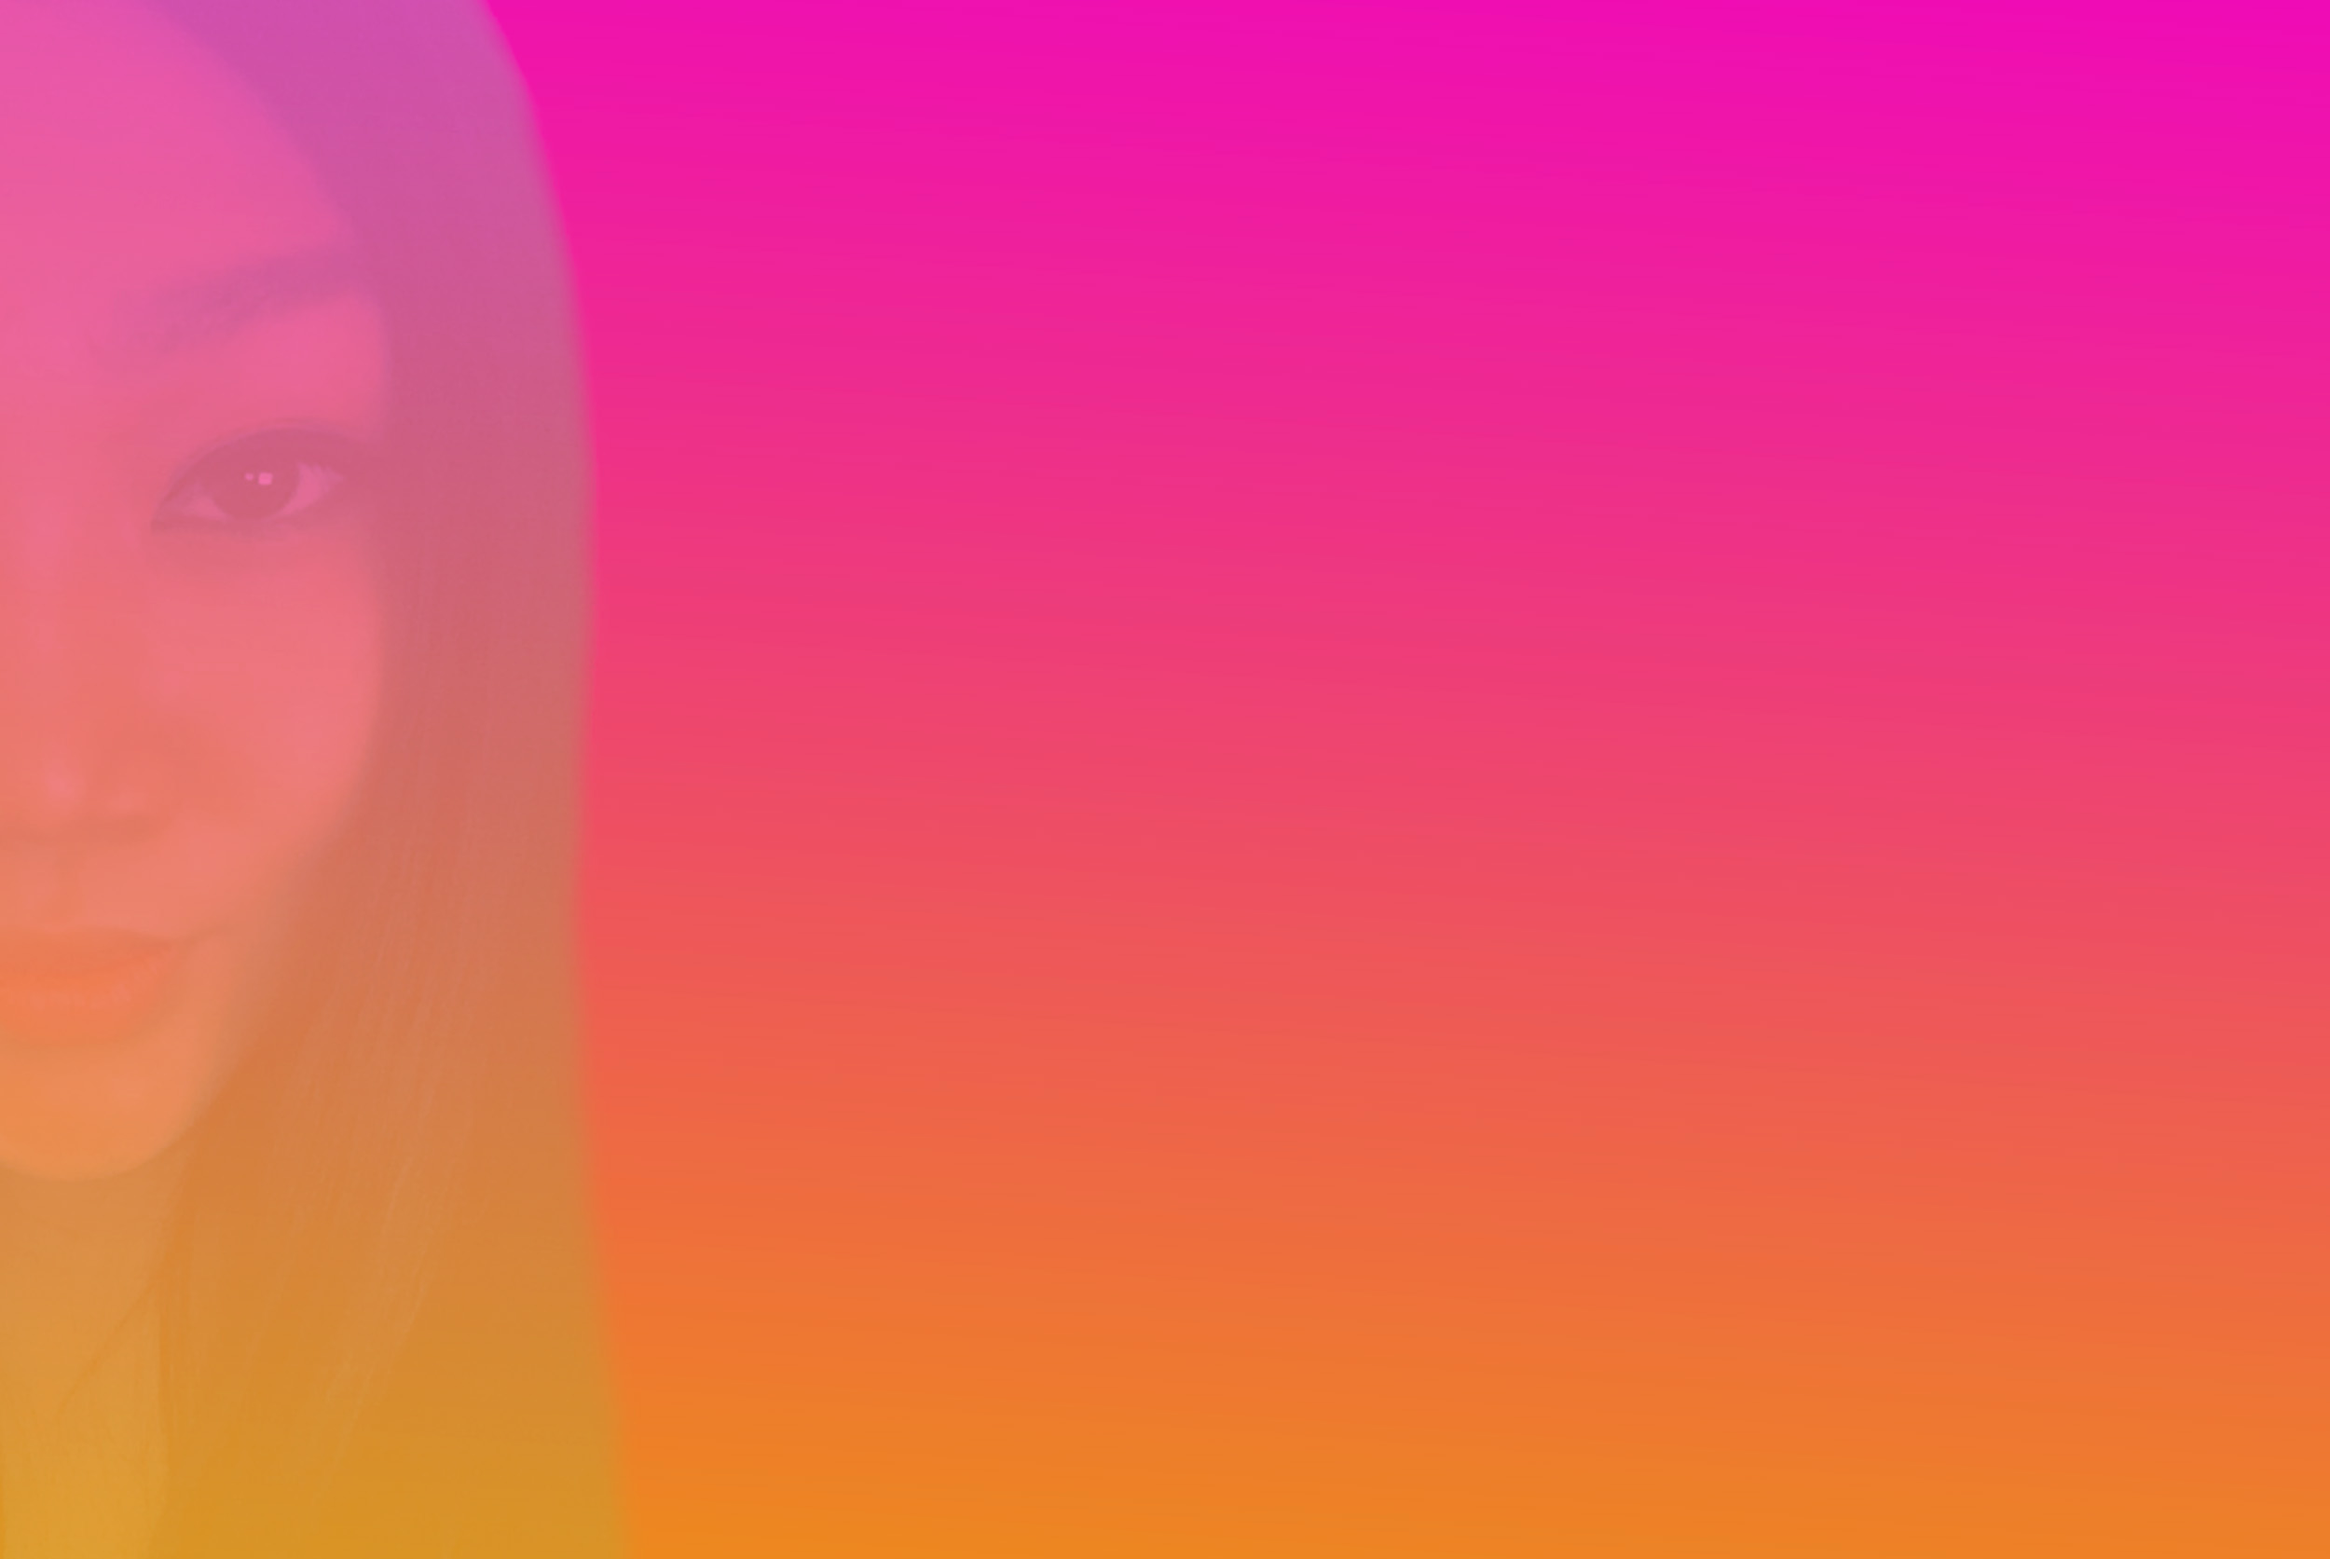
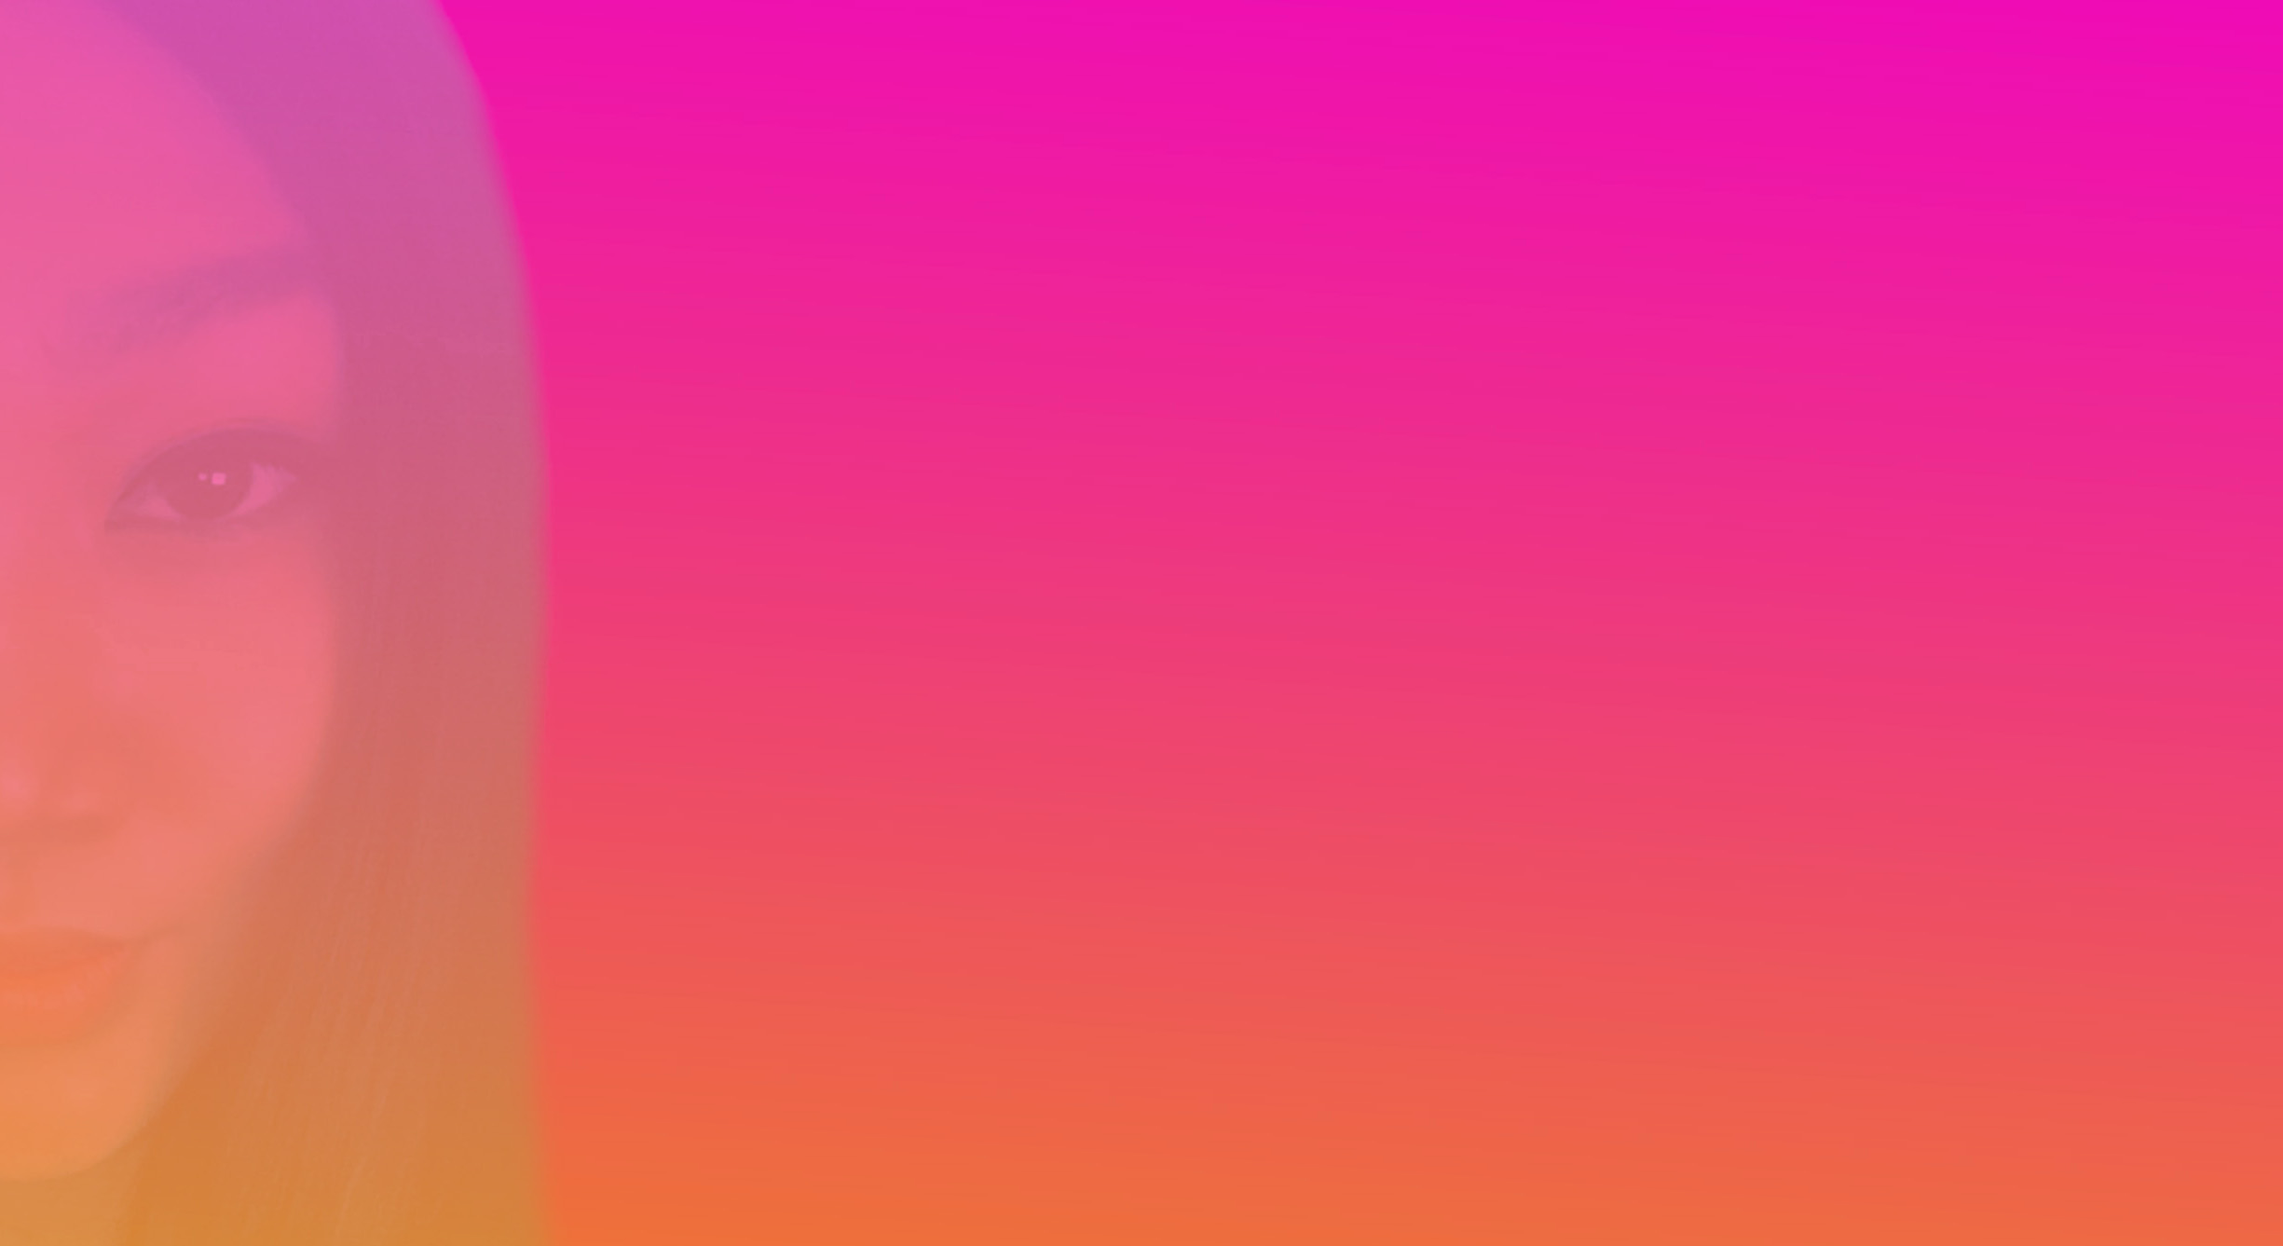
fixed navigation and cropped image

diff --git a/css/main.css b/css/main.css
@@ -9,7 +9,7 @@ body {
 }
 
 .navbar-custom {
-  background: transparent;
+  background: white;
   font: 300 1em/1.5em 'Lato';
   font: Ultra-Light 300 1em/1.5em 'Lato';
   font: Ultra-Light 300 1em/1.5em 'Lato', sans-serif;
@@ -76,7 +76,7 @@ body {
 
 @media (min-width: 768px) {
   .navbar-custom {
-    padding: 8px 0;
+    padding: 1px 0;
     -webkit-transition: padding 0.3s;
     -moz-transition: padding 0.3s;
     transition: padding 0.3s;
@@ -156,10 +156,10 @@ section.module.parallax-4 h1 {
 }
 
 section.module.parallax-1 {
-  min-height: 100%;
+  /*min-height: 100%;*/
   background-image: url('../img/me.jpg');
   background-size: cover;
-  box-shadow:inset 0 0 0 2000px rgba(255,255,255,0.1);
+  /*box-shadow:inset 0 0 0 2000px rgba(255,255,255,0.1);*/
 }
 
 section.module.parallax-2 {
